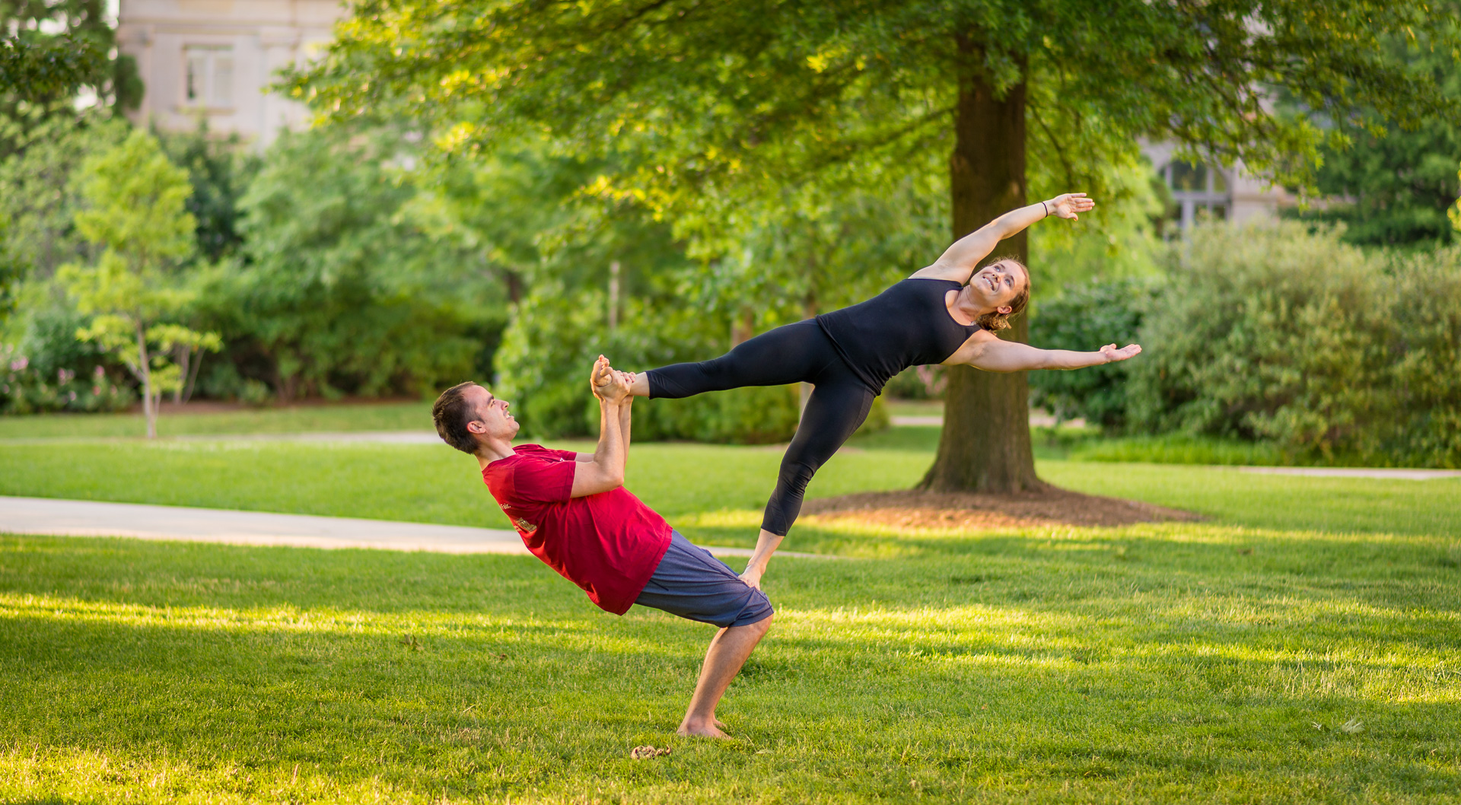
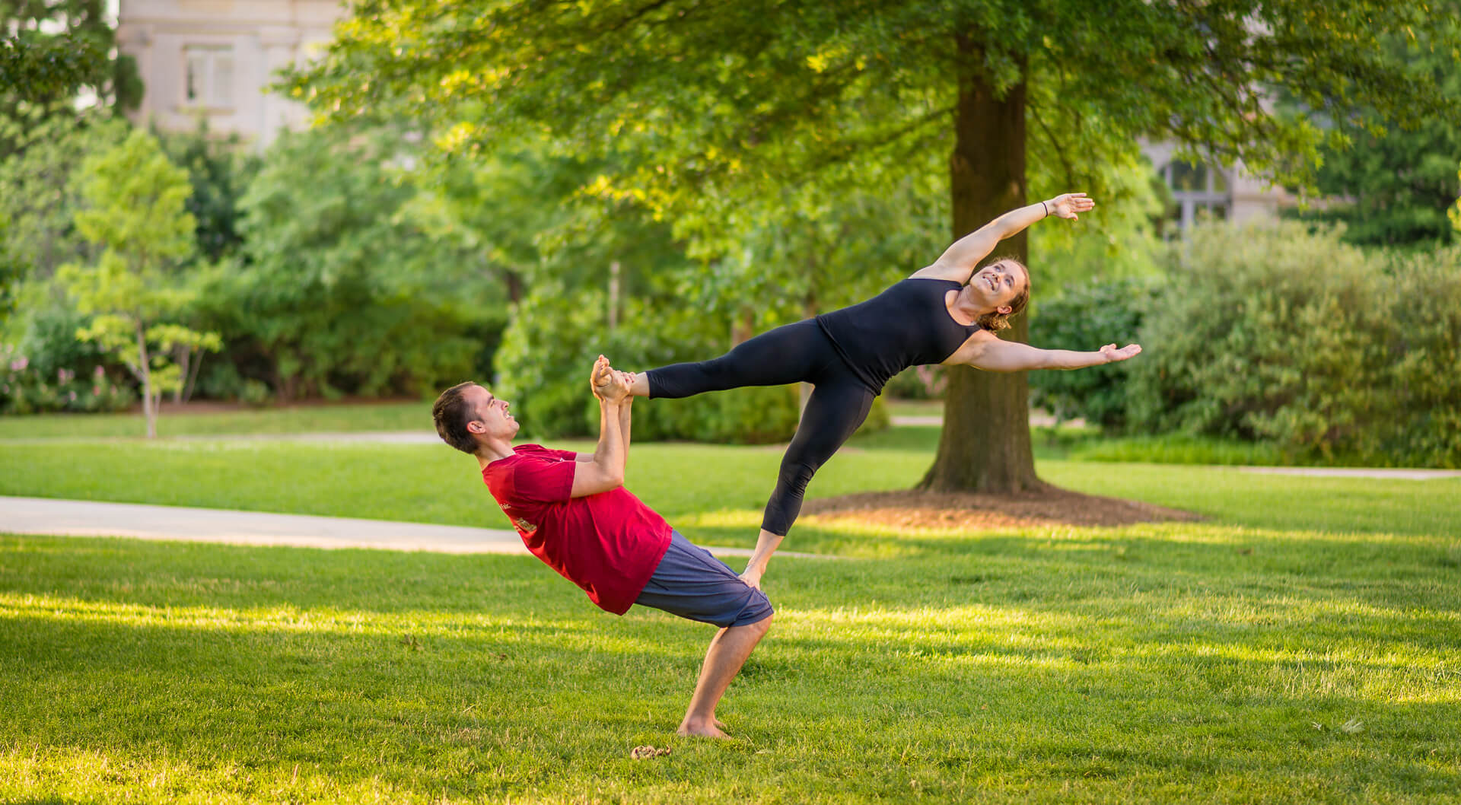
replace big images with much smaller compressed versions

Changed region(s): [[0.0, 0.8422, 0.6875, 0.9981], [0.5938, 0.7486, 1.0, 0.8733]]

diff --git a/content/index.md b/content/index.md
@@ -2,10 +2,10 @@
 title: Hi, I'm Brian.
 metaTitle: Acro With Brian
 layout: Homepage
-hero: assets/DSC_5823.jpg
+hero: assets/home-1920x.jpg
 aboutPhoto: assets/DSC_3042-640x.jpg
 aboutPhotoBig: assets/DSC_3042-1080x.jpg
-photoHighlight: assets/DSC_0436.jpg
+photoHighlight: assets/photo-highlight-1920x.jpg
 # hero credit: https://www.flickr.com/photos/pslee999/15589950511/
 #cta:
 #  label: About this theme
